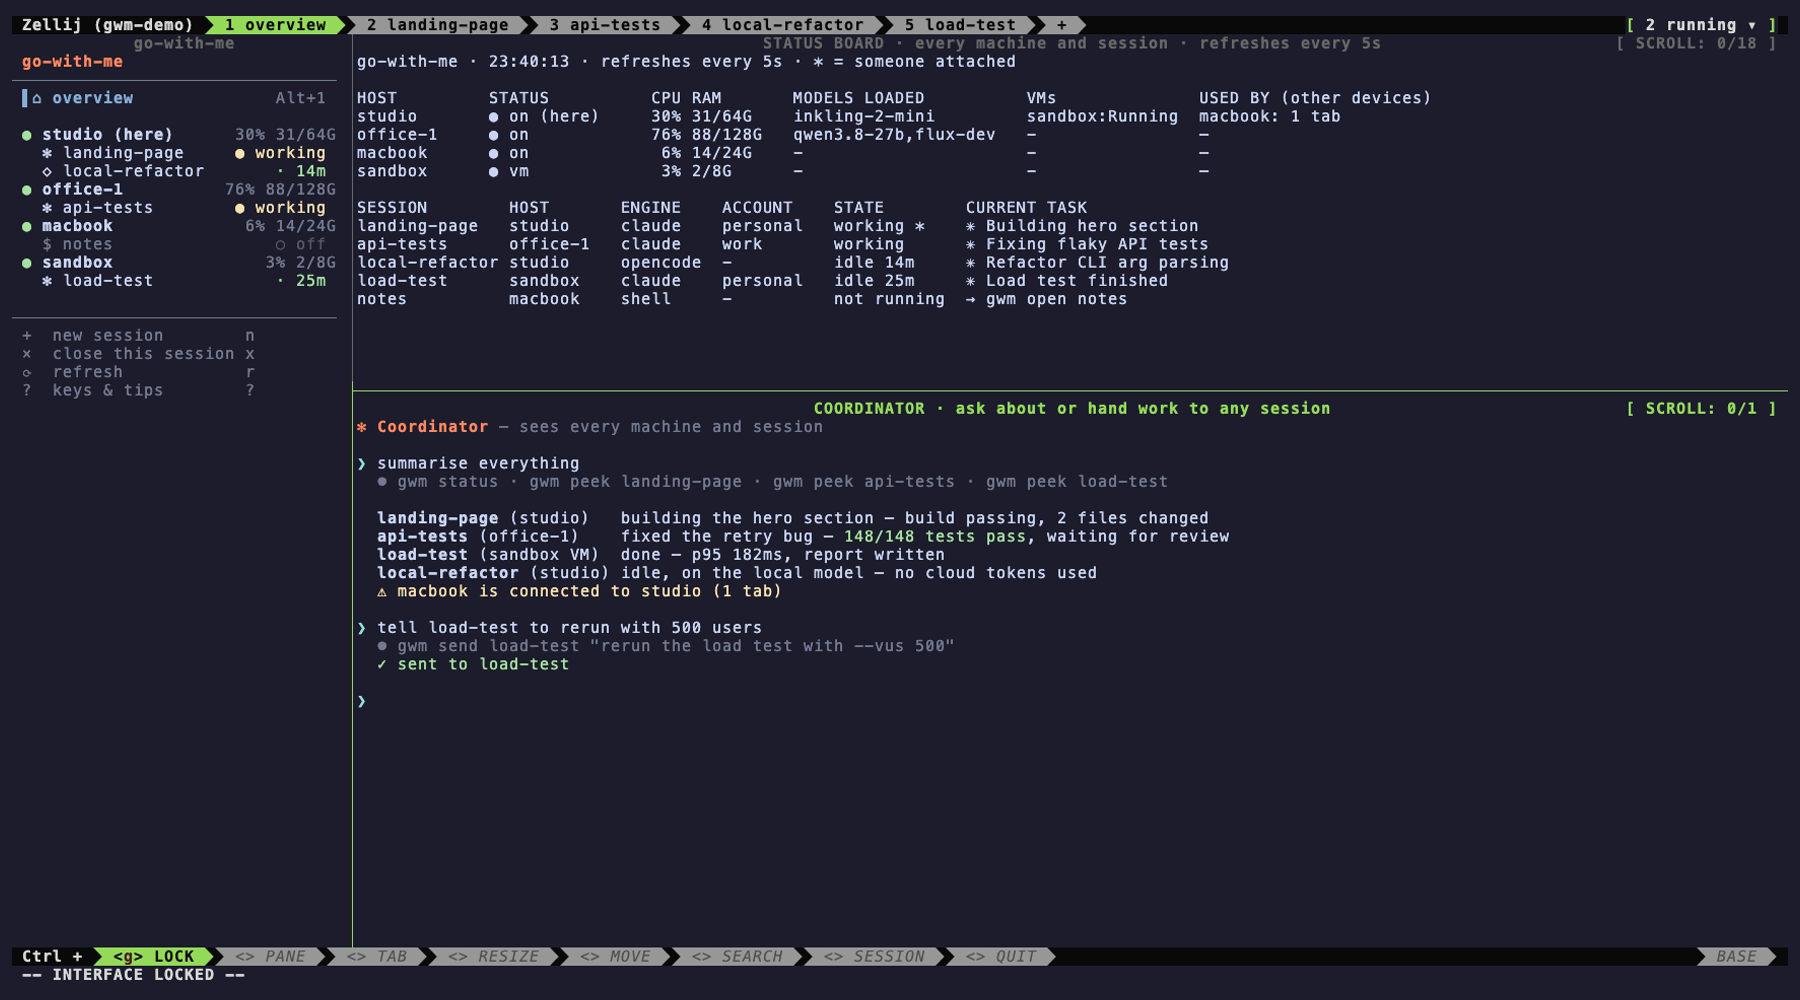
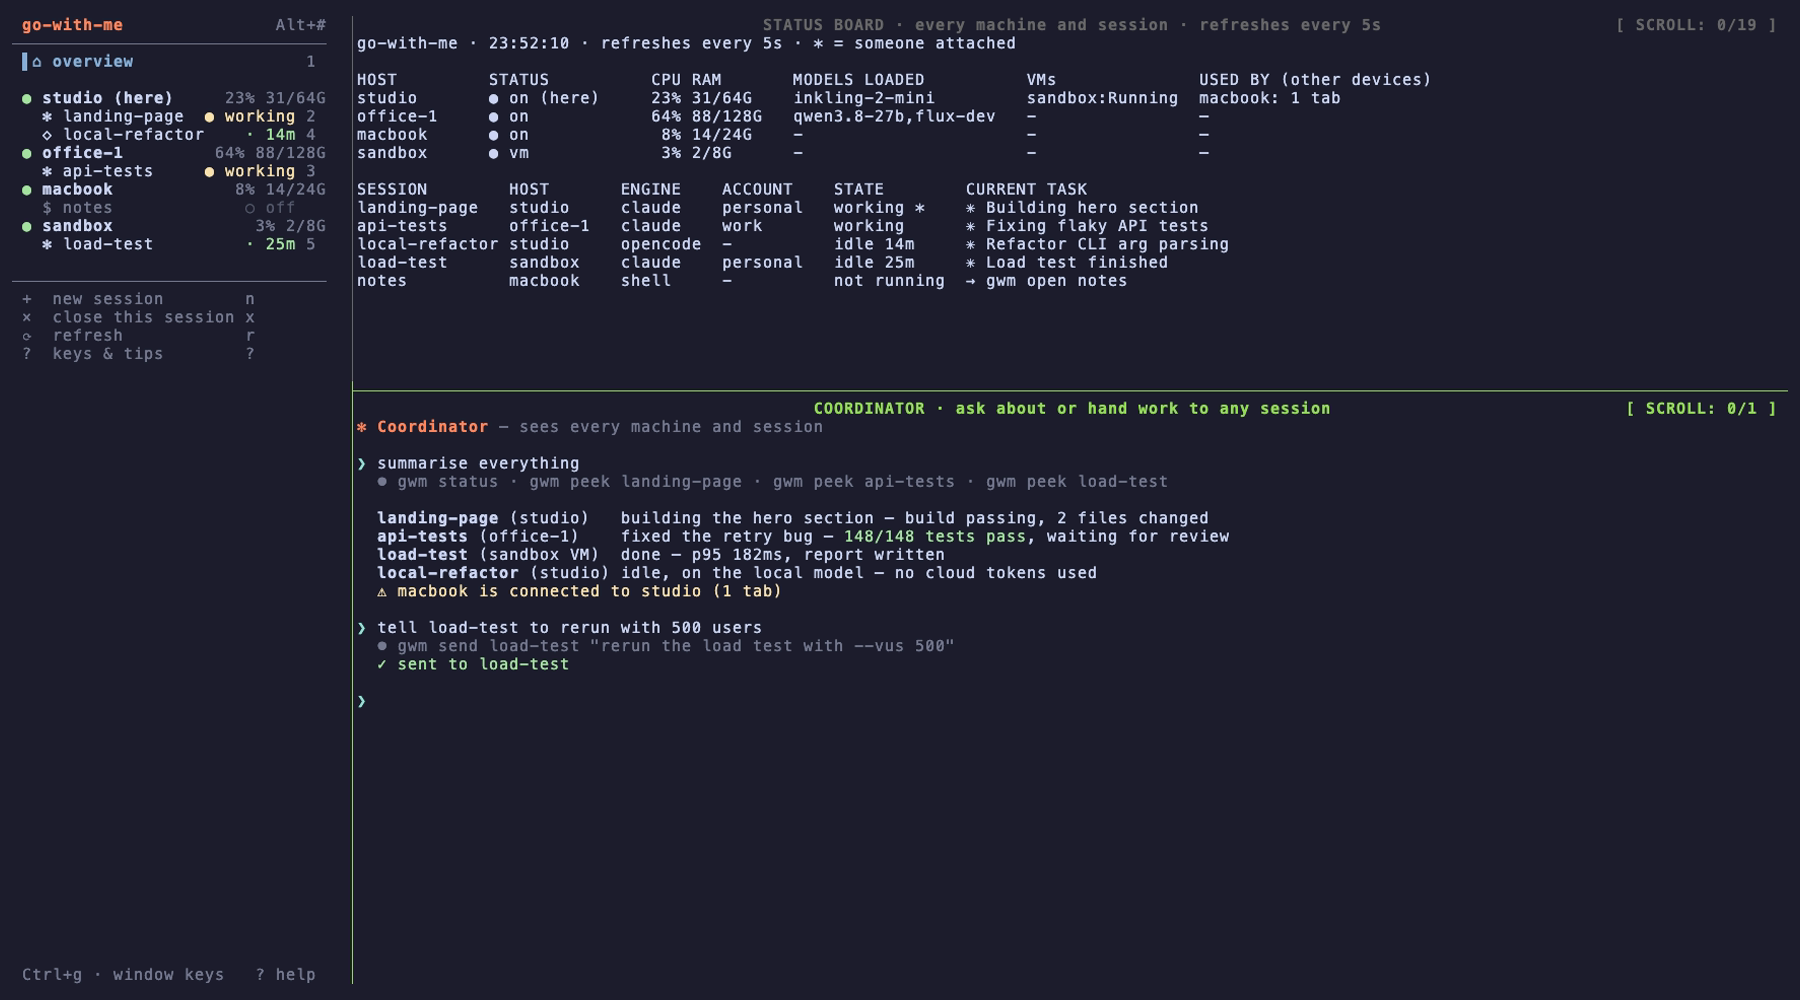
Make the sidebar the only navigation
- Remove Zellij's top tab bar and bottom shortcut bar (and its
  "INTERFACE LOCKED" label); the sidebar is now borderless, so the title
  appears once.
- The sidebar shows each open tab's Alt+number beside its session and a
  "Ctrl+g · window keys" hint; the help lists the exact window keys.
- README GIF and screenshots re-recorded.

Changed region(s): [[0.0, 0.0, 0.9956, 0.403], [0.0, 0.93, 0.9956, 0.992]]

diff --git a/sidebar.py b/sidebar.py
@@ -106,12 +106,13 @@ def build_rows():
 
 def draw(scr, rows, cursor):
     scr.erase()
-    H, W = scr.getmaxyx()
-    W = max(W, 10)
+    H, W0 = scr.getmaxyx()
+    W = max(W0 - 1, 10)          # keep one column of breathing room before the session's border
     with lock:
         active, me = tabs["active"], state["self"]
         probe, used, ok = state["probe"], state["used"], state["ok"]
-    open_names = {t["name"] for t in tabs["list"]}
+        tabnum = {t["name"]: t["pos"] + 1 for t in tabs["list"]}
+    open_names = set(tabnum)
 
     def put(y, x, text, attr=0):
         if 0 <= y < H and x < W:
@@ -120,18 +121,21 @@ def draw(scr, rows, cursor):
             except curses.error:
                 pass
 
+    put(H - 1, 1, "Ctrl+g · window keys   ? help", curses.A_DIM)
+
     for y, (kind, key, data) in enumerate(rows[:H]):
         sel = (y == cursor)
         base = curses.A_REVERSE if sel else 0
         if kind == "title":
             put(y, 1, "go-with-me", curses.color_pair(1) | curses.A_BOLD)
-            put(y, 12, "" if ok else "loading…", curses.A_DIM)
+            put(y, 12, "loading…" if not ok else "", curses.A_DIM)
+            put(y, W - 6, "Alt+#", curses.A_DIM)
         elif kind == "sep":
             put(y, 0, "─" * (W - 1), curses.A_DIM)
         elif kind == "overview":
             a = curses.A_BOLD | (curses.color_pair(6) if active == "overview" else 0)
             put(y, 1, ("▌" if active == "overview" else " ") + "⌂ overview", a | base)
-            put(y, W - 7, "Alt+1", curses.A_DIM)
+            put(y, W - 3, str(tabnum.get("overview", "")), curses.A_DIM)
         elif kind == "host":
             hp = probe.get(key, {})
             up = hp.get("up")
@@ -148,7 +152,9 @@ def draw(scr, rows, cursor):
             put(y, 1, marker, curses.color_pair(6) | curses.A_BOLD)
             put(y, 3, f"{icon} {key}", (curses.A_BOLD if is_active else 0) | (curses.A_DIM if label in ("off", "offline") and key not in open_names else 0) | base)
             st = {"off": "○ off", "offline": "offline"}.get(label, ("● " if label == "working" else "· ") + label)
-            put(y, W - len(st) - 2, st, curses.color_pair(col))
+            num = tabnum.get(key)
+            put(y, W - len(st) - 4, st, curses.color_pair(col))
+            put(y, W - 3, str(num) if num and num < 10 else "", curses.A_DIM)  # Alt+<number> jumps here
         elif kind == "action":
             put(y, 1, data, curses.A_DIM | base if not sel else base)
 
@@ -225,7 +231,9 @@ HELP_CMD = r'''cat <<'EOF'
                 ↑/↓ or j/k then Enter · n new · x close current · r refresh
  Switch tabs    Alt+1…9  ·  Alt+←/→  (Terminal.app: enable "Use Option as Meta key")
  Copy text      select with the mouse — it's copied automatically. Paste with Cmd+V.
- Zellij keys    Ctrl+g first, then follow the bar at the bottom (keys go to Claude until then)
+ Typing         all keys go to the session you're in (Claude, opencode…) — nothing to unlock
+ Window keys    Ctrl+g, then  p ←/→  move between sidebar and session   ·  p f  fullscreen
+                              s  scroll back   ·   Enter  back to typing
  Leave          Ctrl+g → o → d   (everything keeps running) — or just close the window
  From anywhere  gwm status · gwm who · gwm peek <session> · gwm send <session> "text"
 
